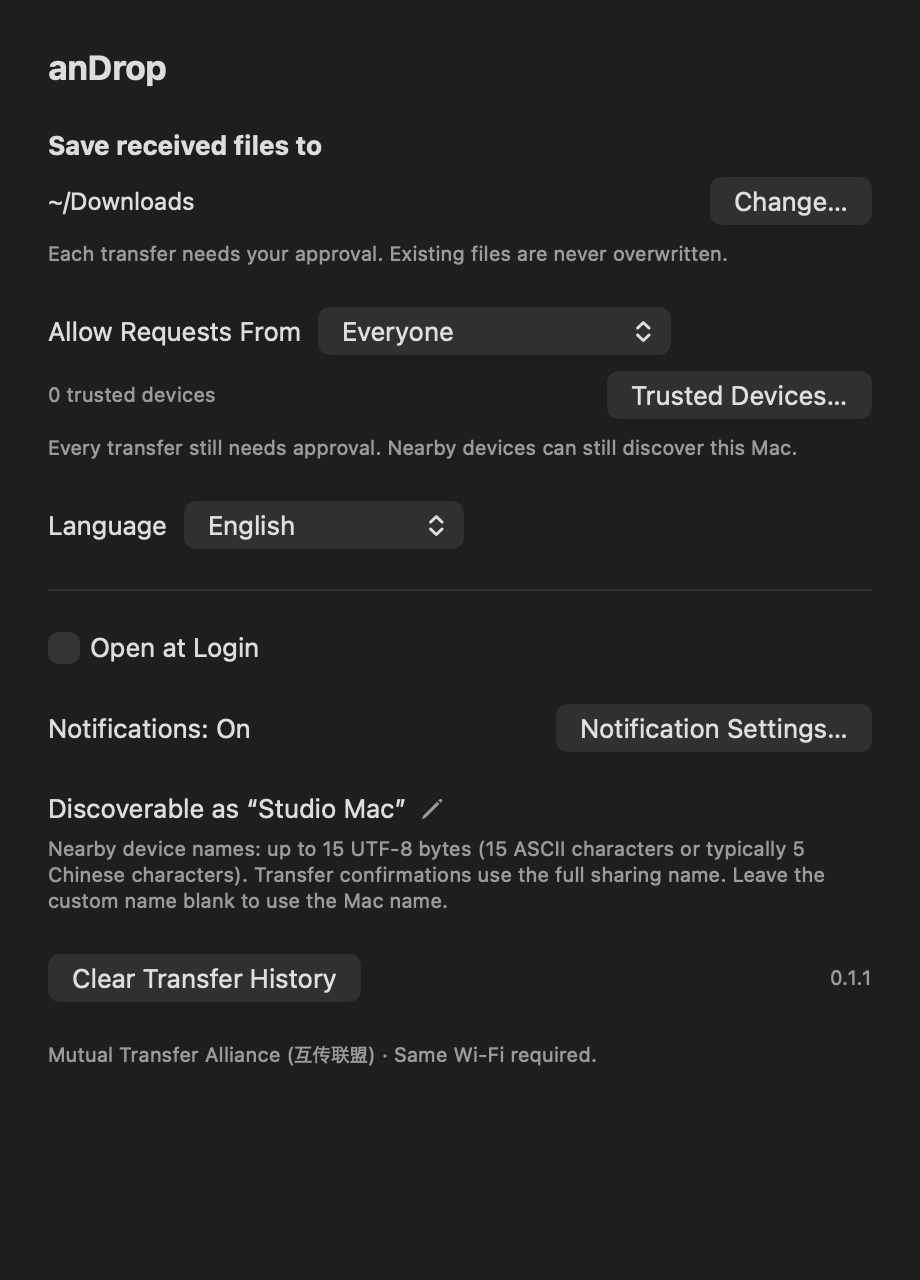
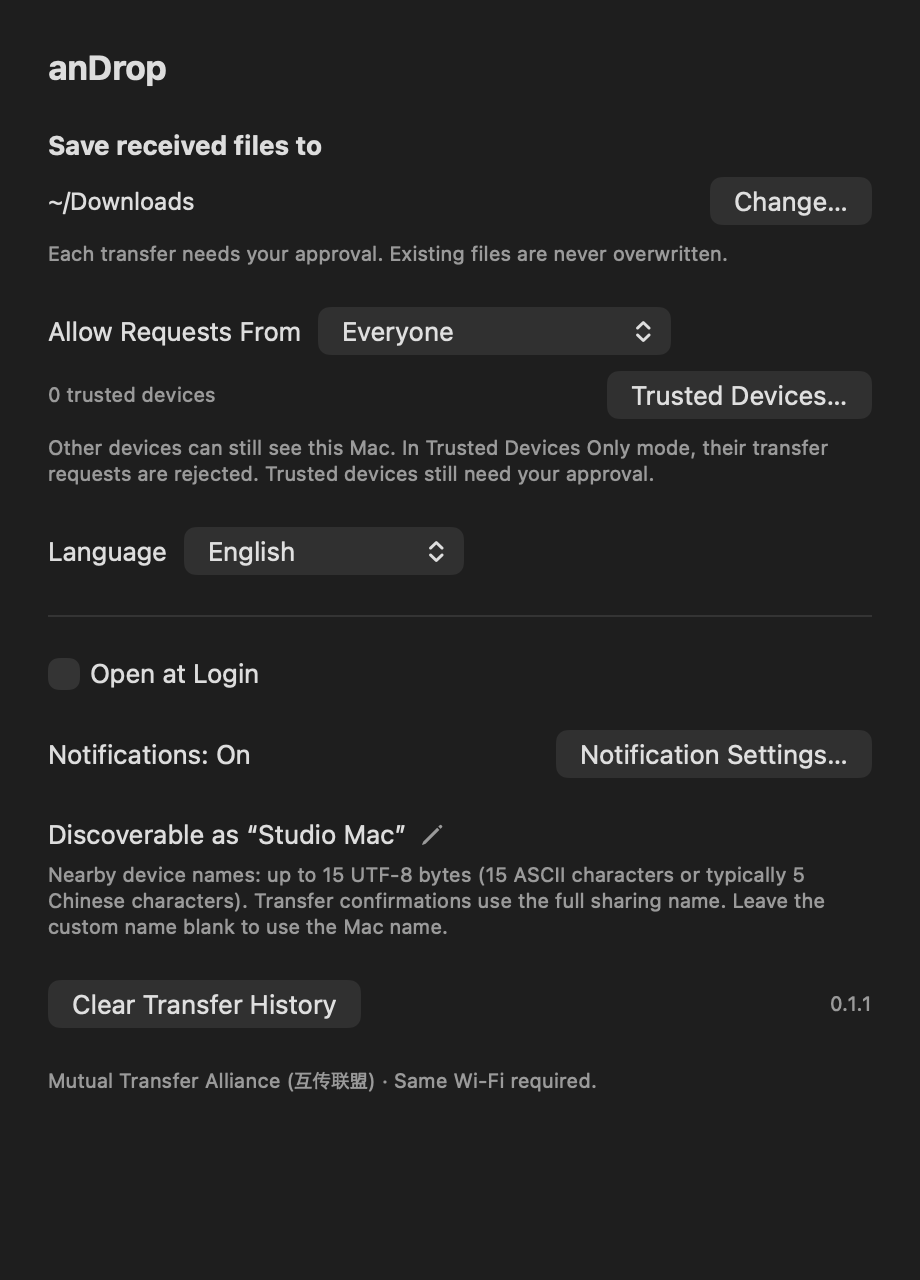
Clarify trusted receiving visibility and reject untrusted GATT access

diff --git a/Sources/main.swift b/Sources/main.swift
@@ -723,12 +723,26 @@ final class AppModel: NSObject, ObservableObject, NSApplicationDelegate, @precon
     func peripheralManagerDidStartAdvertising(_ peripheral: CBPeripheralManager, error: (any Error)?) {
         if let error { self.error = L("Could not make this Mac discoverable: \(error.localizedDescription)", "无法让附近设备发现此 Mac：\(error.localizedDescription)") }
     }
+    private func mayAccessReceiveControl(_ centralID: String) -> Bool {
+        let active = transfers.first { $0.direction == "receive" && ["connecting", "transferring", "confirming"].contains($0.state) }
+        return ReceiveAccessPolicy.allows(centralID: centralID, enabled: receiveSwitchIsOn,
+            trustedOnly: trustedOnly, trustedIDs: trustedDevices.map(\.id),
+            activeReceiveID: active?.deviceIdentifier)
+    }
     func peripheralManager(_ peripheral: CBPeripheralManager, didReceiveRead request: CBATTRequest) {
+        guard mayAccessReceiveControl(request.central.identifier.uuidString) else {
+            peripheral.respond(to: request, withResult: .insufficientAuthorization); return
+        }
         let data = request.characteristic.uuid == CBUUID(string: "9898") ? readValue : Data()
         guard request.offset <= data.count else { peripheral.respond(to: request, withResult: .invalidOffset); return }
         request.value = data.subdata(in: request.offset..<data.count); peripheral.respond(to: request, withResult: .success)
     }
     func peripheralManager(_ peripheral: CBPeripheralManager, didReceiveWrite requests: [CBATTRequest]) {
+        // Reject the whole ATT batch before retaining fragments or sending commands.
+        if requests.contains(where: { !mayAccessReceiveControl($0.central.identifier.uuidString) }) {
+            if let first = requests.first { peripheral.respond(to: first, withResult: .insufficientAuthorization) }
+            return
+        }
         for request in requests {
             let central = request.central.identifier.uuidString; centrals[central] = request.central
             let key = central + request.characteristic.uuid.uuidString
@@ -742,6 +756,8 @@ final class AppModel: NSObject, ObservableObject, NSApplicationDelegate, @precon
         if let request = requests.first { peripheral.respond(to: request, withResult: .success) }
     }
     func peripheralManager(_ peripheral: CBPeripheralManager, central: CBCentral, didSubscribeTo characteristic: CBCharacteristic) {
+        // CoreBluetooth has no API to reject subscription itself; send no application data.
+        guard mayAccessReceiveControl(central.identifier.uuidString) else { return }
         centrals[central.identifier.uuidString] = central; command(["command": "subscribe", "central": central.identifier.uuidString, "uuid": characteristic.uuid.uuidString])
     }
     func peripheralManager(_ peripheral: CBPeripheralManager, central: CBCentral, didUnsubscribeFrom characteristic: CBCharacteristic) {
@@ -751,9 +767,15 @@ final class AppModel: NSObject, ObservableObject, NSApplicationDelegate, @precon
     private func flushNotifications() {
         guard let char = chars["9895"], let peripheral else { return }
         while let first = notifyQueue.first {
-            let target: [CBCentral]?
-            if let id = first.1 { guard let central = centrals[id] else { notifyQueue.removeFirst(); continue }; target = [central] }
-            else { target = nil }
+            let target: [CBCentral]
+            if let id = first.1 {
+                guard mayAccessReceiveControl(id), let central = centrals[id] else { notifyQueue.removeFirst(); continue }
+                target = [central]
+            } else {
+                // Never pass nil, which broadcasts to every subscribed central.
+                target = Array(centrals.values).filter { mayAccessReceiveControl($0.identifier.uuidString) }
+                if target.isEmpty { notifyQueue.removeFirst(); continue }
+            }
             guard peripheral.updateValue(first.0, for: char, onSubscribedCentrals: target) else { return }; notifyQueue.removeFirst()
         }
     }
@@ -1071,7 +1093,7 @@ struct SettingsView: View {
                     Spacer()
                     Button(L("Trusted Devices…", "信任设备…")) { managingTrustedDevices = true }
                 }
-                Text(L("Every transfer still needs approval. Nearby devices can still discover this Mac.", "每次接收仍需确认。附近设备仍可发现此 Mac。"))
+                Text(L("Other devices can still see this Mac. In Trusted Devices Only mode, their transfer requests are rejected. Trusted devices still need your approval.", "未受信任的设备仍可发现此 Mac；选择“仅限信任设备”后，其传输请求会被拒绝。信任设备每次传输仍需你确认。"))
                     .font(.caption).foregroundStyle(.secondary).fixedSize(horizontal: false, vertical: true)
             }
             Picker(L("Language", "语言"), selection: Binding(get: { model.language }, set: model.changeLanguage)) {
@@ -1152,6 +1174,7 @@ struct ReceiveControlsView: View {
             Divider().padding(.horizontal, 14)
             VStack(spacing: 0) {
                 ReceiveScopeRow(title: L("Trusted Devices Only", "仅限信任设备"), symbol: "person.crop.circle", selected: model.trustedOnly, enabled: model.receiveSwitchIsOn) { model.changeTrustedOnly(true) }
+                    .help(L("Other devices can still see this Mac, but their transfer requests are rejected.", "未受信任的设备仍可发现此 Mac，但其传输请求会被拒绝。"))
                 ReceiveScopeRow(title: L("Everyone", "所有人"), symbol: "person.2.fill", selected: !model.trustedOnly, enabled: model.receiveSwitchIsOn) { model.changeTrustedOnly(false) }
             }.padding(.horizontal, 7).padding(.top, 5).padding(.bottom, 6)
         }.frame(width: 308).onExitCommand(perform: model.closeReceiveControls)
@@ -1192,7 +1215,7 @@ struct TrustedDevicesView: View {
     var body: some View {
         VStack(alignment: .leading, spacing: 14) {
             Text(L("Trusted Devices", "信任设备")).font(.headline)
-            Text(L("Add a device from previous transfers below, even when it is offline. For a new device, select Everyone and transfer a file first. Verify the device yourself before trusting it.", "可从下方的传输历史添加设备，无需当前可见。新设备请先选择“所有人”并传输一次文件。请自行核实设备后再信任。"))
+            Text(L("Add a device from previous transfers below, even when it is offline. For a new device, select Everyone and transfer a file first. Verify the device yourself before trusting it. Other devices can still see this Mac; Trusted Devices Only rejects their transfer requests.", "可从下方的传输历史添加设备，无需当前可见。新设备请先选择“所有人”并传输一次文件。请自行核实设备后再信任。未受信任的设备仍可发现此 Mac；“仅限信任设备”会拒绝其传输请求。"))
                 .font(.callout).foregroundStyle(.secondary).fixedSize(horizontal: false, vertical: true)
             ScrollView {
                 VStack(alignment: .leading, spacing: 12) {

diff --git a/tests/swift/ReceiveAccessPolicyTests.swift b/tests/swift/ReceiveAccessPolicyTests.swift
@@ -1,0 +1,36 @@
+// SPDX-License-Identifier: GPL-3.0-only
+// Copyright (c) 2026 anDrop contributors
+
+import Testing
+@testable import anDropIdentity
+
+private let trustedCentral = "00000000-0000-0000-0000-00000000000A"
+private let unknownCentral = "00000000-0000-0000-0000-00000000000B"
+
+@Test func gattUnknownCentralCannotReadOrWriteInTrustedMode() {
+    #expect(!ReceiveAccessPolicy.allows(centralID: unknownCentral, enabled: true,
+        trustedOnly: true, trustedIDs: [trustedCentral]))
+    #expect(ReceiveAccessPolicy.allows(centralID: trustedCentral.lowercased(), enabled: true,
+        trustedOnly: true, trustedIDs: [trustedCentral]))
+    #expect(!ReceiveAccessPolicy.allows(centralID: trustedCentral, enabled: true,
+        trustedOnly: true, trustedIDs: []))
+}
+
+@Test func gattEveryoneStillRequiresAvailableReceiverAndAnEndpointIdentity() {
+    #expect(ReceiveAccessPolicy.allows(centralID: unknownCentral, enabled: true,
+        trustedOnly: false, trustedIDs: []))
+    #expect(!ReceiveAccessPolicy.allows(centralID: unknownCentral, enabled: false,
+        trustedOnly: false, trustedIDs: []))
+    #expect(!ReceiveAccessPolicy.allows(centralID: "Same account name", enabled: true,
+        trustedOnly: false, trustedIDs: []))
+}
+
+@Test func removingTrustDoesNotInterruptPreviouslyAcceptedTransfer() {
+    #expect(ReceiveAccessPolicy.allows(centralID: trustedCentral, enabled: true,
+        trustedOnly: true, trustedIDs: [], activeReceiveID: trustedCentral.lowercased()))
+    #expect(!ReceiveAccessPolicy.allows(centralID: unknownCentral, enabled: true,
+        trustedOnly: true, trustedIDs: [], activeReceiveID: trustedCentral))
+    // Once the session ends the exemption disappears, so a new request is rejected.
+    #expect(!ReceiveAccessPolicy.allows(centralID: trustedCentral, enabled: true,
+        trustedOnly: true, trustedIDs: []))
+}

diff --git a/Package.swift b/Package.swift
@@ -8,7 +8,7 @@ let package = Package(
     name: "anDropIdentity",
     platforms: [.macOS(.v14)],
     targets: [
-        .target(name: "anDropIdentity", path: "Sources", exclude: ["ControlState.swift", "ControlIntents.swift", "ControlWidgets.swift", "BrandLogos.swift", "main.swift", "Localization.swift", "ShareViewController.swift", "engine.py", "peer_metadata.py", "discovery.py"], sources: ["Peer.swift", "TransferProgress.swift"]),
+        .target(name: "anDropIdentity", path: "Sources", exclude: ["ControlState.swift", "ControlIntents.swift", "ControlWidgets.swift", "BrandLogos.swift", "main.swift", "Localization.swift", "ShareViewController.swift", "engine.py", "peer_metadata.py", "discovery.py"], sources: ["Peer.swift", "ReceiveAccessPolicy.swift", "TransferProgress.swift"]),
         .testTarget(name: "anDropIdentityTests", dependencies: ["anDropIdentity"], path: "tests/swift")
     ]
 )

diff --git a/Sources/ReceiveAccessPolicy.swift b/Sources/ReceiveAccessPolicy.swift
@@ -1,0 +1,16 @@
+// SPDX-License-Identifier: GPL-3.0-only
+// Copyright (c) 2026 anDrop contributors
+
+import Foundation
+
+/// Filters GATT access, not discovery: a Bluetooth advertisement is still public.
+nonisolated enum ReceiveAccessPolicy {
+    static func allows(centralID: String, enabled: Bool, trustedOnly: Bool,
+                       trustedIDs: [String], activeReceiveID: String? = nil) -> Bool {
+        guard let central = UUID(uuidString: centralID) else { return false }
+        // A previously accepted transfer may finish after removing trust.
+        if let activeReceiveID, UUID(uuidString: activeReceiveID) == central { return true }
+        guard enabled else { return false }
+        return !trustedOnly || trustedIDs.contains { UUID(uuidString: $0) == central }
+    }
+}

diff --git a/build.py b/build.py
@@ -16,17 +16,17 @@ CONTROL_INFO={'AnDropHostBundleIdentifier':BUNDLE_ID}
 if CONTROL_GROUP:CONTROL_INFO['AnDropControlGroup']=CONTROL_GROUP
 def run(*cmd):subprocess.run([str(x) for x in cmd],check=True)
 for path in ['Contents/MacOS','Contents/Resources','Contents/PlugIns/anDropShare.appex/Contents/MacOS']:(APP/path).mkdir(parents=True,exist_ok=True)
-info={'CFBundleExecutable':'anDrop','CFBundleIdentifier':BUNDLE_ID,'CFBundleName':'anDrop','CFBundleDisplayName':'anDrop','CFBundlePackageType':'APPL','CFBundleShortVersionString':'0.1.1','CFBundleVersion':'32','CFBundleDevelopmentRegion':'en','CFBundleLocalizations':['en','zh-Hans'],'LSMinimumSystemVersion':'14.0','NSBluetoothAlwaysUsageDescription':'Discover nearby devices for file sharing through the Mutual Transfer Alliance (互传联盟) ecosystem.','NSLocalNetworkUsageDescription':'Send and receive files with Android devices on the same Wi-Fi.','NSHighResolutionCapable':True,'LSUIElement':False,'CFBundleURLTypes':[{'CFBundleURLName':BUNDLE_ID+'.share','CFBundleURLSchemes':['androp']}],'CFBundleDocumentTypes':[{'CFBundleTypeName':'Files','CFBundleTypeRole':'Viewer','LSHandlerRank':'Alternate','LSItemContentTypes':['public.data']}],'CFBundleIconFile':'AppIcon'}
+info={'CFBundleExecutable':'anDrop','CFBundleIdentifier':BUNDLE_ID,'CFBundleName':'anDrop','CFBundleDisplayName':'anDrop','CFBundlePackageType':'APPL','CFBundleShortVersionString':'0.1.1','CFBundleVersion':'33','CFBundleDevelopmentRegion':'en','CFBundleLocalizations':['en','zh-Hans'],'LSMinimumSystemVersion':'14.0','NSBluetoothAlwaysUsageDescription':'Discover nearby devices for file sharing through the Mutual Transfer Alliance (互传联盟) ecosystem.','NSLocalNetworkUsageDescription':'Send and receive files with Android devices on the same Wi-Fi.','NSHighResolutionCapable':True,'LSUIElement':False,'CFBundleURLTypes':[{'CFBundleURLName':BUNDLE_ID+'.share','CFBundleURLSchemes':['androp']}],'CFBundleDocumentTypes':[{'CFBundleTypeName':'Files','CFBundleTypeRole':'Viewer','LSHandlerRank':'Alternate','LSItemContentTypes':['public.data']}],'CFBundleIconFile':'AppIcon'}
 info.update(CONTROL_INFO)
 (APP/'Contents/Info.plist').write_bytes(plistlib.dumps(info))
 ext=APP/'Contents/PlugIns/anDropShare.appex'
-extinfo={'CFBundleExecutable':'anDropShare','CFBundleIdentifier':BUNDLE_ID+'.Share','CFBundleName':'anDrop','CFBundleDisplayName':'anDrop','CFBundlePackageType':'XPC!','CFBundleShortVersionString':'0.1.1','CFBundleVersion':'32','CFBundleDevelopmentRegion':'en','CFBundleLocalizations':['en','zh-Hans'],'LSMinimumSystemVersion':'14.0','NSExtension':{'NSExtensionPointIdentifier':'com.apple.share-services','NSExtensionPrincipalClass':'ShareViewController','NSExtensionAttributes':{'NSExtensionActivationRule':{'NSExtensionActivationDictionaryVersion':2,'NSExtensionActivationSupportsFileWithMaxCount':1000,'NSExtensionActivationSupportsImageWithMaxCount':1000,'NSExtensionActivationSupportsMovieWithMaxCount':1000}}}}
+extinfo={'CFBundleExecutable':'anDropShare','CFBundleIdentifier':BUNDLE_ID+'.Share','CFBundleName':'anDrop','CFBundleDisplayName':'anDrop','CFBundlePackageType':'XPC!','CFBundleShortVersionString':'0.1.1','CFBundleVersion':'33','CFBundleDevelopmentRegion':'en','CFBundleLocalizations':['en','zh-Hans'],'LSMinimumSystemVersion':'14.0','NSExtension':{'NSExtensionPointIdentifier':'com.apple.share-services','NSExtensionPrincipalClass':'ShareViewController','NSExtensionAttributes':{'NSExtensionActivationRule':{'NSExtensionActivationDictionaryVersion':2,'NSExtensionActivationSupportsFileWithMaxCount':1000,'NSExtensionActivationSupportsImageWithMaxCount':1000,'NSExtensionActivationSupportsMovieWithMaxCount':1000}}}}
 (ext/'Contents/Info.plist').write_bytes(plistlib.dumps(extinfo))
 cache=ROOT/'build/module-cache';cache.mkdir(parents=True,exist_ok=True)
 protocols=Path(subprocess.check_output(['xcrun','--find','swiftc'],text=True).strip()).parents[1]/'share/swift/SwiftConstantValues/AppIntents.json'
 protocol_data=json.loads(protocols.read_text())
 protocol_list=ROOT/'build/control-protocols.json';protocol_list.write_text(json.dumps(protocol_data['constValueProtocols'] if isinstance(protocol_data,dict) else protocol_data))
-host_sources=[ROOT/'Sources'/name for name in ['Localization.swift','Peer.swift','TransferProgress.swift','BrandLogos.swift','ControlState.swift','ControlIntents.swift','main.swift']]
+host_sources=[ROOT/'Sources'/name for name in ['Localization.swift','Peer.swift','ReceiveAccessPolicy.swift','TransferProgress.swift','BrandLogos.swift','ControlState.swift','ControlIntents.swift','main.swift']]
 host_const=ROOT/'build/host.swiftconstvalues';host_object=ROOT/'build/host.o'
 run('swiftc','-c','-whole-module-optimization','-emit-const-values','-emit-const-values-path',host_const,'-Xfrontend','-const-gather-protocols-file','-Xfrontend',protocol_list,'-swift-version','6','-default-isolation','MainActor','-module-name','anDrop','-module-cache-path',cache,*host_sources,'-o',host_object)
 run('swiftc',host_object,'-o',APP/'Contents/MacOS/anDrop')

diff --git a/tests/test_trusted_devices.py b/tests/test_trusted_devices.py
@@ -61,3 +61,31 @@ class TrustedDeviceTests(unittest.IsolatedAsyncioTestCase):
         engine.trusted_ids = {DEVICE}
         self.assertTrue(engine.may_receive(DEVICE.lower()))
         self.assertFalse(engine.may_receive(OTHER))
+
+    async def test_unknown_subscription_receives_no_ready_notification(self):
+        engine = Engine(); engine.trusted_only = True; engine.trusted_ids = {DEVICE}
+        with patch('engine.emit') as emit:
+            await engine.command({'command':'subscribe','uuid':'9895','central':OTHER})
+            await engine.command({'command':'subscribe','uuid':'9895'})
+        self.assertFalse(any(c.args[0] == 'ble_notify' for c in emit.call_args_list))
+
+    async def test_trusted_subscription_gets_ready_but_disabled_receiver_does_not(self):
+        engine = Engine(); engine.trusted_only = True; engine.trusted_ids = {DEVICE}
+        with patch('engine.emit') as emit:
+            await engine.command({'command':'subscribe','uuid':'9895','central':DEVICE})
+        self.assertEqual(sum(c.args[0] == 'ble_notify' for c in emit.call_args_list), 1)
+        engine.scan_enabled = False
+        with patch('engine.emit') as emit:
+            await engine.command({'command':'subscribe','uuid':'9895','central':DEVICE})
+        self.assertFalse(any(c.args[0] == 'ble_notify' for c in emit.call_args_list))
+
+    def test_accepted_session_retains_control_access_after_trust_removal(self):
+        engine = Engine(); engine.trusted_only = True
+        engine.session = {'direction':'receive','state':'connecting','central':DEVICE}
+        self.assertTrue(engine.may_access_control(DEVICE.lower()))
+        self.assertFalse(engine.may_access_control(OTHER))
+        self.assertFalse(engine.may_receive(DEVICE))  # New offers remain blocked.
+        engine.session['state'] = 'request'
+        self.assertFalse(engine.may_access_control(DEVICE))
+        engine.session = None
+        self.assertFalse(engine.may_access_control(DEVICE))

diff --git a/Sources/engine.py b/Sources/engine.py
@@ -211,6 +211,14 @@ class Engine:
             self.session=None;self.keys=Keys();self.read_state()
     def may_receive(self,central):
         return not self.trusted_only or bool(central and central.upper() in self.trusted_ids)
+    def may_access_control(self,central):
+        if not isinstance(central,str):return False
+        try:identifier=str(uuid.UUID(central)).upper()
+        except (ValueError,AttributeError):return False
+        session=self.session
+        if session and session.get('direction')=='receive' and session.get('state') in ('connecting','transferring','confirming') and session.get('central','').upper()==identifier:
+            return True
+        return self.scan_enabled and self.may_receive(identifier)
     async def receive_write(self,obj):
         central=obj.get('central','')
         if obj.get('uuid')!='9896': return
@@ -533,7 +541,7 @@ class Engine:
                 if not value or not self.discovering:self.clear_peers()
                 self.discovering=value
             elif command=='subscribe':
-                if obj.get('uuid')=='9895':self.notify('ready',obj.get('central'))
+                if obj.get('uuid')=='9895' and self.may_access_control(obj.get('central')):self.notify('ready',obj.get('central'))
             elif command=='write':await self.receive_write(obj)
             elif command=='decision':
                 future=self.decisions.get(obj.get('id'))

diff --git a/scripts/render-docs.py b/scripts/render-docs.py
@@ -38,7 +38,7 @@ with tempfile.TemporaryDirectory(prefix='androp-docs-') as temp:
         'swiftc', '-swift-version', '6', '-default-isolation', 'MainActor',
         '-module-cache-path', str(stage / 'module-cache'),
         *[str(ROOT / 'Sources' / name) for name in
-          ['Localization.swift', 'Peer.swift', 'TransferProgress.swift', 'BrandLogos.swift', 'ControlState.swift']],
+          ['Localization.swift', 'Peer.swift', 'ReceiveAccessPolicy.swift', 'TransferProgress.swift', 'BrandLogos.swift', 'ControlState.swift']],
         str(generated), '-o', str(executable),
     ], check=True)
     # This renders views to PNGs without starting the app delegate, Bluetooth,

diff --git a/docs/architecture.md b/docs/architecture.md
@@ -7,6 +7,7 @@
 | `Sources/BrandLogos.swift` | Cached, bundled official manufacturer images; no runtime image downloads |
 | `Sources/TransferProgress.swift` | Sending phases, bounded percentage and recipient snapshot for the progress view |
 | `Sources/discovery.py` | macOS repeat-advertisement delivery for live recipient expiry |
+| `Sources/ReceiveAccessPolicy.swift` | GATT access checks using local trusted endpoint identifiers |
 | `Sources/Peer.swift` | Recipient presentation, local alias keys and duplicate-name disambiguation |
 | `Sources/peer_metadata.py` | Conservative advertisement metadata parsing and recipient identity across endpoint changes |
 | `Sources/Localization.swift` | English/Simplified Chinese strings and system-language fallback |
@@ -24,9 +25,9 @@ There is no runtime import of mtapy; [NOTICE.md](../NOTICE.md) records the earli
 
 ## Trusted-device receive filter
 
-The host persists a user-managed list of CoreBluetooth central UUIDs separately from display aliases. The engine checks the UUID before deriving an incoming session key, and rechecks both the filter and enabled state after the acceptance prompt resolves. It never grants trust from a name or advertised ID. No file is downloaded before approval. Active transfers continue when trust is removed.
+The host persists a user-managed list of CoreBluetooth central UUIDs separately from display aliases. The host gates GATT status reads and whole write batches before responding with application state or buffering data. Unlisted subscriptions receive no application notification; queued notifications are rechecked at delivery and are never broadcast using a nil subscriber list. The engine independently filters ready notifications and checks the UUID before deriving an incoming session key, and rechecks both the filter and enabled state after the acceptance prompt resolves. It never grants trust from a name or advertised ID. No file is downloaded before approval. Active transfers continue when trust is removed.
 
-CoreBluetooth identifiers are local remembered endpoints, not authenticated credentials. They can change; this feature is an allowlist for ordinary nearby-device use, not cryptographic pairing or a defense against a capable impersonator. Discovery advertisements remain public. Adding requires a remembered incoming CoreBluetooth central UUID or an outgoing CoreBluetooth peripheral UUID saved in transfer history, plus an explicit user action. Records remain available offline. An outgoing endpoint UUID may differ from the UUID observed when that device later sends; a mismatch remains rejected and requires registering an incoming request. Advertised protocol IDs and account names are never used as trust keys. The one-time endpoint-history migration removes legacy records without endpoint identifiers. Future failed requests without an identity remain ordinary transfer history but are never trust candidates.
+CoreBluetooth identifiers are local remembered endpoints, not authenticated credentials. They can change; this feature is an allowlist for ordinary nearby-device use, not cryptographic pairing or a defense against a capable impersonator. Discovery advertisements remain public, and the examined Android picker lists the Mac directly from its advertisement before any GATT status read. GATT denial cannot hide this candidate; see [trusted receiving versus discovery](trusted-discovery.md). Adding requires a remembered incoming CoreBluetooth central UUID or an outgoing CoreBluetooth peripheral UUID saved in transfer history, plus an explicit user action. Records remain available offline. An outgoing endpoint UUID may differ from the UUID observed when that device later sends; a mismatch remains rejected and requires registering an incoming request. Advertised protocol IDs and account names are never used as trust keys. The one-time endpoint-history migration removes legacy records without endpoint identifiers. Future failed requests without an identity remain ordinary transfer history but are never trust candidates.
 
 The Control Center extension uses public WidgetKit controls and App Intents on macOS 26+. It launches the host through anDrop’s URL handler to open the compact receive panel. One anDrop control opens a host-owned panel with the receive switch in its header and two receive-scope rows; the system control is a native toggle used as a status indicator. Its disclosure intent opens the panel rather than committing the optimistically requested toggle value; the panel switch remains authoritative. The intent is not exposed as a discoverable Shortcuts action, and requests a reload before and after opening the panel. The public API cannot embed an arbitrary detail popover inside Control Center. The normal menu bar remains available on older macOS versions.
 

diff --git a/docs/trusted-discovery.md b/docs/trusted-discovery.md
@@ -1,0 +1,74 @@
+# Trusted receiving and Bluetooth visibility
+
+Investigation: **2026-10-16**.
+
+## Result
+
+**Trusted Devices Only currently limits receiving, not who can discover this Mac.**
+An unlisted device can still see anDrop in its standard sharing picker. It must
+not be described as private discovery or as equivalent to AirDrop Contacts Only.
+This is a real limitation of the implemented discovery path.
+
+The receive filter now also guards GATT status reads, writes and application
+notifications. An unknown device receives no sharing status/public-key response,
+its write batch is rejected before buffering, and it receives no ready/session
+notification. This closes access that was previously left open before the
+engine's incoming-offer filter. **It does not remove the advertised candidate
+from the Android picker.**
+
+## Why GATT rejection cannot hide this candidate
+
+The examined OShare version `17.2.36` handles service `8881` advertisements by
+extracting a protocol identifier and sharing name from the Bluetooth local name.
+Its `com.oplus.oshare.ble.impl.o.onScanResult` dispatches to `o(ScanResult)`, which
+passes that advertisement-derived device to `v9.a.e`. The latter inserts the
+candidate into the device list and notifies its observers. This path does not
+require a GATT connection or characteristic `9898` read before listing.
+
+This finding comes from read-only local analysis of the installed vendor app.
+It applies to that examined implementation, not every alliance device. The
+vendor APK and decompiled source are not redistributed here. This investigation
+did not change Android visibility, pair devices, or establish a new successful
+physical transfer after the GATT change.
+
+anDrop currently broadcasts one local name and service `8881`. Apple's public
+[`CBPeripheralManager.startAdvertising`](https://developer.apple.com/documentation/corebluetooth/cbperipheralmanager/startadvertising(_:))
+accepts local-name and service-UUID data. It offers no per-central destination or
+allowlist parameter. A remembered CoreBluetooth UUID becomes available to the
+host's GATT request callbacks; it cannot retrospectively restrict who heard the
+public advertisement.
+
+Stopping all advertisements would also remove discovery for trusted devices.
+Advertising only while a trusted device is nearby would still expose the same
+packet to untrusted devices nearby. Neither implements selective discovery.
+Changing the sharing name or denying GATT status does not make a public packet
+private.
+
+## What the additional receive checks enforce
+
+- In trusted mode, GATT reads and write batches are denied for unlisted central
+  UUIDs before exposing sharing state or forwarding data to the engine.
+- CoreBluetooth subscription callbacks cannot themselves be rejected, but
+  unlisted subscribers receive no application notification. Queued notifications
+  are checked against the current policy at delivery time; a nil destination is
+  never used to broadcast to every subscriber.
+- The engine independently checks ready-notification subscriptions and retains
+  its incoming-offer check before key derivation and user confirmation.
+- Removing trust while confirmation is pending still prevents acceptance.
+  A previously accepted transfer may finish; this exemption is scoped to that
+  receive session's central and ends with the session.
+- Names and advertised protocol identifiers never grant trust. A locally
+  remembered Bluetooth identifier is not cryptographic authentication.
+
+## Remaining implementation requirement
+
+Actual selective discovery needs a different interoperable discovery exchange
+in which a supported peer proves or recognizes a provisioned identity before
+showing anDrop. Current per-Mac UUID history does not create that shared identity.
+Vendor account/contact discovery is a separate research direction; the existing
+public advertisement cannot be made selective by a host-side GATT access check.
+No universal impossibility claim is made for future protocol work.
+
+The receive-control checks are covered by isolated Python and Swift tests.
+Physical visibility/transfer behavior after the change remains a separate
+verification step. The public candidate remains expected on the examined path.

diff --git a/docs/testing.md b/docs/testing.md
@@ -116,3 +116,22 @@ A native preview using the production views checked a one-line “Example” lab
 - macOS registered the control extension. A user confirmed gallery visibility and the initial control-to-file-picker invocation during development. The final design offers one Receive control opening the host-owned receive-scope panel; its public API boundary is documented in usage.
 - Production UI renders with fictional data cover English/Chinese receive scope and trusted-device history. Manufacturer artwork and phone/tablet badges are reused from the recipient chooser; OPPO/vivo use white logos on green/blue, and Xiaomi retains official orange artwork.
 - These checks do not establish physical-device coverage for other manufacturers or cryptographic peer authentication.
+
+
+## GATT trust-boundary follow-up
+
+- Python suite: **54 tests pass**, including no ready notification for an unlisted
+  or missing central, disabled-receiver subscription rejection, and a transfer
+  already accepted before trust removal retaining its control channel.
+- Swift suite: **13 tests pass**. New production-policy tests cover unknown,
+  trusted, malformed and unavailable-receiver cases, case-insensitive UUIDs and
+  the accepted-session exemption. A completed session grants no exemption for
+  a new offer.
+- Pending confirmation is excluded from the accepted-session exemption; existing
+  revocation-before-acceptance tests continue to pass.
+- GATT read/write/notification callbacks now apply that policy. Unit tests do
+  not establish physical-device compatibility of the changed ATT responses.
+- Read-only analysis of OShare `17.2.36` established that its `8881` discovery
+  path adds a candidate directly from advertising data before any GATT read.
+  These changes therefore do **not** implement selective visibility. See the
+  [investigation and remaining limitation](trusted-discovery.md).

diff --git a/README.en.md b/README.en.md
@@ -76,6 +76,8 @@ Names and privacy: local device names allow **40 characters** and do not rename 
 
 Choose **Trusted Devices Only** or **Everyone** in the menu bar or Settings. Every transfer still requires approval in both modes; trusting a device never enables automatic acceptance.
 
+**Visibility is different from AirDrop Contacts Only.** Other devices can still see this Mac in their sharing picker. **Trusted Devices Only rejects transfer requests from devices that are not in the trusted list; it does not hide anDrop from them.** Trusted devices still require approval. AirDrop Contacts Only performs contact matching before responding during discovery ([Apple Platform Security](https://support.apple.com/guide/security/airdrop-security-sec2261183f4/web)); anDrop’s current alliance discovery uses a public Bluetooth advertisement. See [discovery limits and receive filtering](docs/trusted-discovery.md).
+
 Open Settings → **Trusted Devices…** to add devices from previous transfers even when they are offline. New devices need one transfer in Everyone mode first. Device rows use manufacturer artwork with a phone/tablet badge. Verify the requesting device yourself. Different local identifier suffixes distinguish devices with identical names. Remove trust or forget a remembered device at any time.
 
 This filter uses Bluetooth identifiers remembered by this Mac, not account or device names. It is not cryptographic pairing or authenticated identity. Add a device again if its identifier changes. Nearby advertisements remain visible. Trusted-only mode rejects unlisted requests before showing approval or connecting over Wi-Fi to download files. Removing trust does not interrupt an already-started transfer.
